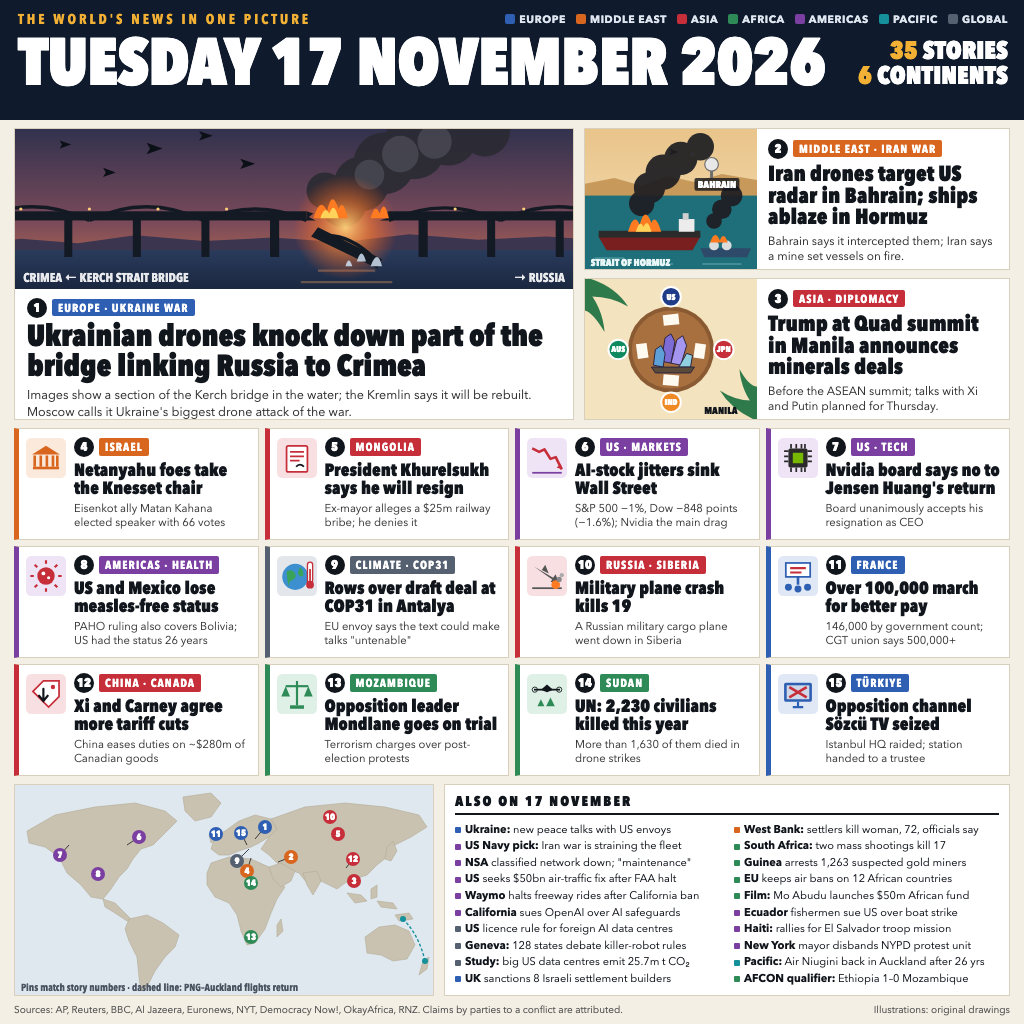
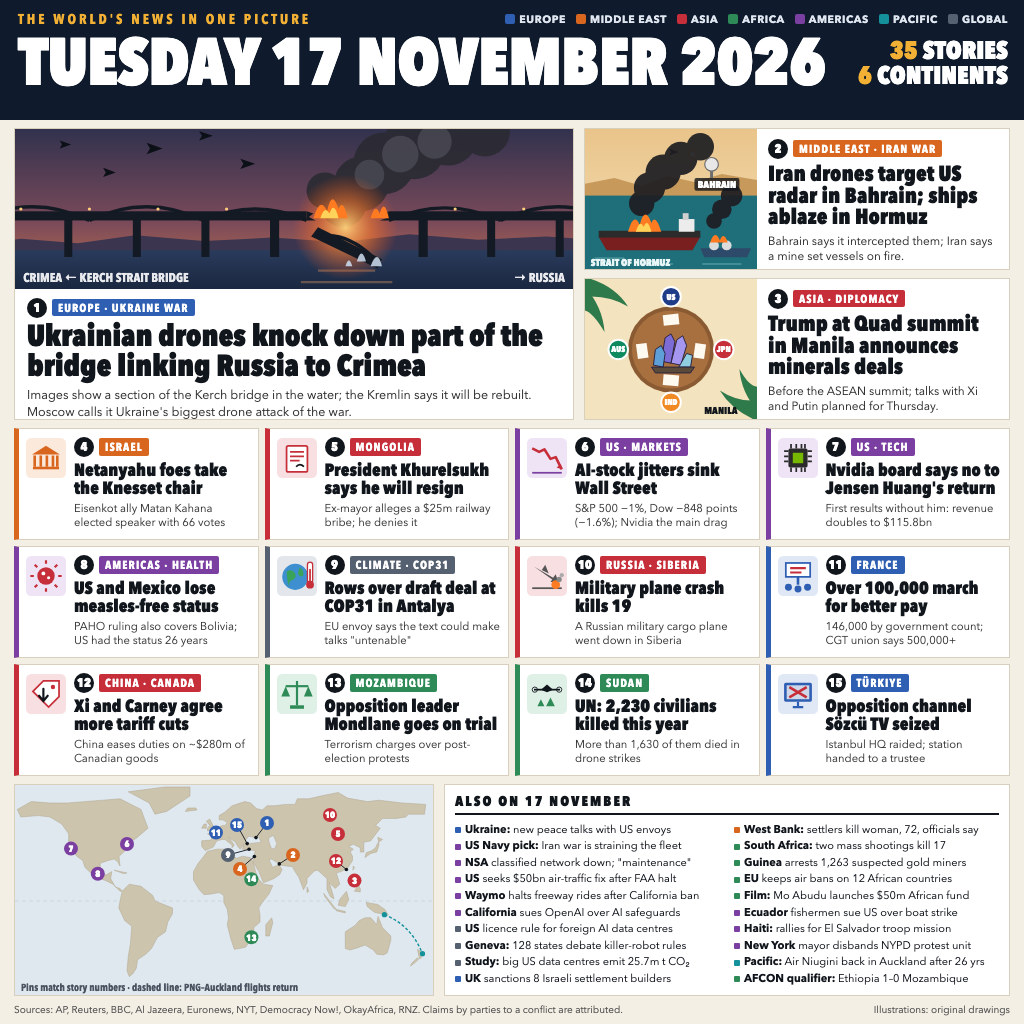
Redraw world map from real coordinates, add Nvidia results

Changed region(s): [[0.0, 0.75, 0.4375, 0.9688], [0.8125, 0.4688, 0.9688, 0.5312]]

diff --git a/layout/index.html b/layout/index.html
@@ -373,7 +373,7 @@
       <path d="M15 12 V7 M21 12 V7 M27 12 V7 M31 12 V7 M15 34 V39 M21 34 V39 M27 34 V39 M31 34 V39 M12 15 H7 M12 21 H7 M12 27 H7 M34 15 H39 M34 21 H39 M34 27 H39" stroke="#2b2b2b" stroke-width="2"/></svg>
     <div class="body"><div class="top"><span class="num">7</span><span class="tag am">US · Tech</span></div>
       <h3>Nvidia board says no to Jensen Huang's return</h3>
-      <p>Board unanimously accepts his resignation as CEO</p></div>
+      <p>First results without him: revenue doubles to $115.8bn</p></div>
   </div>
 
   <div class="card am">
@@ -461,53 +461,78 @@
 <section class="map">
   <svg viewBox="0 0 420 212" width="420" height="212" xmlns="http://www.w3.org/2000/svg">
     <!-- equirectangular: x = (lon+170)*1.1667, y = (80-lat)*1.4 + 4 -->
-    <g fill="#c9c2b0" stroke="#b3ab97" stroke-width="0.6">
-      <path d="M12 46 L40 30 L80 22 L120 18 L150 26 L162 36 L150 48 L138 60 L126 64 L118 74 L112 84 L104 92 L96 104 L88 114 L76 112 L66 100 L52 88 L44 72 L30 62 L14 58 Z"/>
-      <path d="M168 12 L196 8 L206 18 L196 32 L180 36 L170 26 Z"/>
-      <path d="M88 114 L100 118 L110 128 L116 134 L112 136 L100 128 L90 122 Z"/>
-      <path d="M114 134 L132 130 L148 138 L164 150 L160 162 L150 172 L140 186 L132 202 L126 206 L124 192 L122 172 L114 156 L110 144 Z"/>
-      <path d="M196 64 L200 52 L210 46 L224 36 L240 30 L256 34 L262 44 L254 52 L244 58 L236 62 L224 66 L214 70 L204 70 Z"/>
-      <path d="M194 50 L200 46 L202 54 L196 58 Z"/>
-      <path d="M196 78 L214 72 L236 74 L254 82 L262 94 L270 102 L262 114 L256 128 L250 144 L240 158 L232 160 L226 146 L222 130 L214 118 L200 112 L192 100 L192 88 Z"/>
-      <path d="M262 140 L266 134 L268 146 L262 152 Z"/>
-      <path d="M256 34 L290 22 L330 18 L370 22 L404 30 L412 42 L396 52 L380 60 L372 72 L362 80 L352 90 L340 94 L330 98 L322 104 L314 100 L306 96 L298 104 L292 98 L284 88 L272 84 L262 78 L254 70 L246 64 L254 52 L262 44 Z"/>
-      <path d="M254 82 L266 78 L280 86 L276 96 L266 102 L258 94 Z"/>
-      <path d="M288 88 L302 86 L306 96 L298 110 L292 100 Z"/>
-      <path d="M332 108 L346 110 L352 116 L340 118 Z"/><path d="M356 104 L362 100 L362 112 L356 114 Z"/>
-      <path d="M362 116 L378 118 L382 124 L366 122 Z"/>
-      <path d="M372 62 L378 56 L382 66 L376 76 L370 74 Z"/>
-      <path d="M350 152 L364 142 L380 140 L394 146 L400 160 L392 174 L378 176 L366 170 L352 168 Z"/>
-      <path d="M408 176 L414 172 L412 184 L404 190 Z"/>
-      <path d="M380 130 L394 128 L398 134 L384 136 Z"/>
+    <!-- equator -->
+    <line x1="0" y1="116" x2="420" y2="116" stroke="#c3d2de" stroke-width="0.8" stroke-dasharray="4 3"/>
+    <g fill="#cdc4ae" stroke="#b0a68e" stroke-width="0.5" stroke-linejoin="round">
+      <!-- North America -->
+      <path d="M2.3 24.4 L16.3 16.6 L35 18 L52.5 18 L87.5 15.2 L105 13.8 L126 24.4 L133 43.2 L121.3 53.2 L116.7 56 L110 65.8 L104 71.4 L105 81 L102.7 76.8 L99.2 74 L93.3 75.4 L85.2 78.2 L85.2 86.6 L91 90.1 L96.8 86.6 L95.7 93.6 L100.3 102 L105 103.4 L107.3 106.2 L105 106.2 L98 99.2 L91 95.7 L85.2 93.6 L75.8 88 L70 82.4 L67.7 75.4 L61.8 71.2 L53.7 60 L53.7 48.8 L46.7 39 L35 32 L23.3 30.6 L5.8 32 Z"/>
+      <!-- Cuba -->
+      <path d="M99.2 85.2 L112 88 L108.5 88.6 Z"/>
+      <!-- Greenland, Iceland -->
+      <path d="M113.2 6.8 L150 2 L175 2 L175 11 L151.7 26.4 L140 29.2 L134.2 18 Z"/>
+      <path d="M170.3 26.4 L182 25 L180.8 22.9 L172.7 23 Z"/>
+      <!-- South America -->
+      <path d="M108.5 104.8 L114.3 99.2 L126 101.3 L137.7 110.4 L140 116 L157.5 123 L157.5 128.6 L152.8 137 L150.5 146.8 L142.3 152.4 L136.5 163.6 L130.7 169.2 L122.5 174.8 L121.3 183.2 L117.8 188.8 L114.3 191.6 L112 186 L113.2 172 L115.5 158 L116.7 141.2 L109.7 135.6 L103.8 123 L105 116 L107.3 106.2 Z"/>
+      <!-- Eurasia -->
+      <path d="M186.7 61.4 L190.2 65.6 L198.3 62.1 L201.8 55.8 L207.7 54.4 L210 54.4 L217 60 L217 62.8 L219.3 60 L213.5 52.3 L220.5 57.2 L222.8 61.4 L225.2 64.2 L228.7 59.3 L227.5 64.2 L240.3 65.6 L239.2 69.8 L238 72.6 L238 76.8 L243.8 86.6 L248.5 97.8 L259 93.6 L264.8 89.4 L267.2 84.5 L263.7 79.6 L257.8 82.4 L254 74.7 L256.7 74 L265.8 80.3 L271.7 81 L277.5 81.7 L280 86.6 L283.8 92.2 L288.5 104.8 L292 97.8 L292 93.6 L299.3 85.9 L302.7 85.2 L307.4 89.4 L312 93.6 L312 104.8 L315.5 111.8 L319 113.9 L317.8 109 L314.3 97.8 L320.2 103.4 L324.8 99.2 L321.3 88 L326 86.6 L332.8 83.1 L337.5 75.4 L337.5 71.2 L335.2 67 L338.3 64.2 L333.7 61.4 L338.3 59.3 L345.3 62.8 L345.3 67 L348.8 67 L348.8 57.2 L355.8 55.8 L365.2 43.2 L360.5 40.4 L367.5 33.4 L381.5 33.4 L390.8 32 L393.2 29.2 L409.5 29.2 L410.7 19.4 L387.3 18 L364 15.2 L352.3 16.6 L332.5 13.1 L323.2 7.5 L305.7 11 L294 13.8 L282.3 13.8 L280 19.4 L270.7 19.4 L259 20.8 L252 20.8 L247.3 25 L241.5 23.6 L235.7 18 L229.8 16.6 L217 20.8 L210 27.1 L204.2 30.6 L204.2 34.8 L207.7 34.8 L212.3 37.6 L210 40.4 L207.7 40.4 L204.2 41.8 L200.7 44.6 L196 48.1 L192.5 48.8 L197.2 51.6 L196 55.1 L186.7 55.8 Z"/>
+      <!-- Britain, Ireland -->
+      <path d="M192.5 46 L200.1 43.9 L197.2 39 L194.8 34.1 L191.3 36.2 L194.8 40.4 L192.5 43.2 Z"/>
+      <path d="M186.7 43.2 L191.3 43.2 L191.3 39 L189 39 Z"/>
+      <!-- Africa -->
+      <path d="M178.5 86.6 L178.5 95 L184.3 104.8 L189 109.7 L196 109 L204.2 107.6 L208.8 110.4 L208.8 117.4 L212.3 124.4 L213.5 132.8 L212.3 139.8 L215.8 153.8 L219.3 164.3 L224 163.6 L230.5 162.2 L235.2 155.9 L238.8 149.6 L238.8 142.6 L245 137 L245 130 L243.8 123 L247.3 117.4 L254 109 L257.8 100.6 L248.5 99.2 L243.8 94.3 L241.5 89.4 L238 77.5 L235.2 72.6 L227.5 71.2 L221.7 73.3 L215.8 70.5 L210 68.4 L210 64.2 L201.8 64.2 L192.5 66.3 L186.7 74 L183.2 78.2 Z"/>
+      <path d="M250.8 151 L254.3 151 L257.8 137.7 L256.7 132.8 L250.8 139.8 Z"/>
+      <!-- Sri Lanka, Japan, Taiwan, Philippines -->
+      <path d="M292 102 L293.8 106.2 L292 107.6 Z"/>
+      <path d="M350 72.6 L355.8 68.4 L361.7 67 L364 60 L362.8 52.3 L367.5 54.4 L362.8 57.9 L360.5 62.8 L357 65.6 L351.2 67.7 Z"/>
+      <path d="M338.3 81 L339.5 82.4 L337.9 85.2 Z"/>
+      <path d="M338.3 90.1 L339.5 90.8 L341.8 97.8 L345.3 103.4 L345.3 106.9 L339.5 106.2 L341.8 102 L338.3 96.4 Z"/>
+      <!-- Borneo, Sumatra, Java, New Guinea -->
+      <path d="M325 113.9 L331.5 106.2 L333.8 114.6 L330.3 121.6 L323.2 120.2 Z"/>
+      <path d="M308.6 108.3 L321.3 124.4 L319 123.7 L310 111.8 Z"/>
+      <path d="M321.3 124.4 L330.3 126.5 L330.3 127.9 L321.3 125.8 Z"/>
+      <path d="M351.2 117.4 L362.8 119.5 L369.8 124.4 L373.3 130 L365.2 128.6 L359.3 127.2 L352.3 121.6 Z"/>
+      <!-- Australia, New Zealand -->
+      <path d="M330.3 146.8 L330.3 163.6 L335 165 L342 162.9 L350.2 160.1 L358.4 165 L361.7 169.2 L368.7 169.9 L372.3 167.8 L375.8 155.2 L375.8 151 L367.5 142.6 L363 131.4 L361.7 139.8 L355.8 132.8 L350 132.8 L344.2 135.6 L340 140.5 Z"/>
+      <path d="M402.5 164.3 L408.3 168.5 L406.6 172 L404.8 174.1 L403.7 170.6 Z"/>
+      <path d="M402.5 172.7 L403.7 174.1 L400.2 177.6 L395.5 181.1 L396.7 178.3 Z"/>
+    </g>
+    <!-- inland seas -->
+    <g fill="#dfe8ef" stroke="#b0a68e" stroke-width="0.5">
+      <path d="M231 54.4 L233.3 51.6 L236.8 51.6 L239.2 53 L242.7 50.2 L246.3 57.2 L240.3 57.9 L234.5 58.6 L231 57.2 Z"/>
+      <path d="M253.7 53 L258.3 50.2 L261.8 58.6 L259.5 64.2 L256 62.8 L253.7 55.8 Z"/>
     </g>
     <g font-family="Avenir Next Condensed, sans-serif" font-weight="800" font-size="9" text-anchor="middle">
-      <g stroke="#11151c" stroke-width="0.8">
-        <line x1="240" y1="54" x2="250" y2="42"/>
-        <line x1="263" y1="77" x2="276" y2="72"/>
-        <line x1="236" y1="73" x2="232" y2="86"/>
-        <line x1="234" y1="64" x2="222" y2="76"/>
-        <line x1="232" y1="60" x2="226" y2="48"/>
-        <line x1="331" y1="83" x2="338" y2="74"/>
-        <line x1="54" y1="60" x2="45" y2="70"/>
-        <line x1="112" y1="60" x2="124" y2="52"/>
+      <!-- exact spots + leader lines to offset pins in the crowded Europe / Middle East area -->
+      <g stroke="#11151c" stroke-width="0.9">
+        <line x1="241" y1="52.6" x2="252" y2="38"/>
+        <line x1="232.2" y1="58.6" x2="222" y2="40"/>
+        <line x1="234.1" y1="64.3" x2="213" y2="70"/>
+        <line x1="239.4" y1="71.5" x2="225" y2="84"/>
+        <line x1="264.3" y1="78.9" x2="278" y2="70"/>
+        <line x1="331.4" y1="84.5" x2="321" y2="76"/>
       </g>
-      <circle cx="250" cy="42" r="7" fill="#2f5fb3"/><text x="250" y="45.2" fill="#fff">1</text>
-      <circle cx="276" cy="72" r="7" fill="#d9661f"/><text x="276" y="75.2" fill="#fff">2</text>
-      <circle cx="339" cy="96" r="7" fill="#c62f3a"/><text x="339" y="99.2" fill="#fff">3</text>
-      <circle cx="232" cy="86" r="7" fill="#d9661f"/><text x="232" y="89.2" fill="#fff">4</text>
+      <g fill="#11151c">
+        <circle cx="241" cy="52.6" r="1.8"/><circle cx="232.2" cy="58.6" r="1.8"/><circle cx="234.1" cy="64.3" r="1.8"/>
+        <circle cx="239.4" cy="71.5" r="1.8"/><circle cx="264.3" cy="78.9" r="1.8"/><circle cx="331.4" cy="84.5" r="1.8"/>
+      </g>
+      <circle cx="252" cy="38" r="7" fill="#2f5fb3"/><text x="252" y="41.2" fill="#fff">1</text>
+      <circle cx="278" cy="70" r="7" fill="#d9661f"/><text x="278" y="73.2" fill="#fff">2</text>
+      <circle cx="339.5" cy="95.6" r="7" fill="#c62f3a"/><text x="339.5" y="98.8" fill="#fff">3</text>
+      <circle cx="225" cy="84" r="7" fill="#d9661f"/><text x="225" y="87.2" fill="#fff">4</text>
       <circle cx="323" cy="49" r="7" fill="#c62f3a"/><text x="323" y="52.2" fill="#fff">5</text>
-      <circle cx="124" cy="52" r="7" fill="#7a3fa0"/><text x="124" y="55.2" fill="#fff">6</text>
-      <circle cx="45" cy="70" r="7" fill="#7a3fa0"/><text x="45" y="73.2" fill="#fff">7</text>
-      <circle cx="83" cy="89" r="7" fill="#7a3fa0"/><text x="83" y="92.2" fill="#fff">8</text>
-      <circle cx="222" cy="76" r="7" fill="#556070"/><text x="222" y="79.2" fill="#fff">9</text>
-      <circle cx="315" cy="32" r="7" fill="#c62f3a"/><text x="315" y="35.2" fill="#fff">10</text>
-      <circle cx="201" cy="49" r="7" fill="#2f5fb3"/><text x="201" y="52.2" fill="#fff">11</text>
-      <circle cx="338" cy="74" r="7" fill="#c62f3a"/><text x="338" y="77.2" fill="#fff">12</text>
-      <circle cx="236" cy="152" r="7" fill="#2e8b57"/><text x="236" y="155.2" fill="#fff">13</text>
-      <circle cx="236" cy="98" r="7" fill="#2e8b57"/><text x="236" y="101.2" fill="#fff">14</text>
-      <circle cx="226" cy="48" r="7" fill="#2f5fb3"/><text x="226" y="51.2" fill="#fff">15</text>
-      <path d="M388 134 Q404 150 410 176" stroke="#14919b" stroke-width="1.4" stroke-dasharray="3 2" fill="none"/>
-      <circle cx="388" cy="134" r="3" fill="#14919b"/><circle cx="410" cy="176" r="3" fill="#14919b"/>
+      <circle cx="112" cy="59" r="7" fill="#7a3fa0"/><text x="112" y="62.2" fill="#fff">6</text>
+      <circle cx="56" cy="63.6" r="7" fill="#7a3fa0"/><text x="56" y="66.8" fill="#fff">7</text>
+      <circle cx="82.8" cy="88.8" r="7" fill="#7a3fa0"/><text x="82.8" y="92" fill="#fff">8</text>
+      <circle cx="213" cy="70" r="7" fill="#556070"/><text x="213" y="73.2" fill="#fff">9</text>
+      <circle cx="315" cy="30" r="7" fill="#c62f3a"/><text x="315" y="33.2" fill="#fff">10</text>
+      <circle cx="201" cy="47.6" r="7" fill="#2f5fb3"/><text x="201" y="50.8" fill="#fff">11</text>
+      <circle cx="321" cy="76" r="7" fill="#c62f3a"/><text x="321" y="79.2" fill="#fff">12</text>
+      <circle cx="236.4" cy="152.3" r="7" fill="#2e8b57"/><text x="236.4" y="155.5" fill="#fff">13</text>
+      <circle cx="236.3" cy="94.2" r="7" fill="#2e8b57"/><text x="236.3" y="97.4" fill="#fff">14</text>
+      <circle cx="222" cy="40" r="7" fill="#2f5fb3"/><text x="222" y="43.2" fill="#fff">15</text>
+      <!-- Port Moresby -> Auckland flights -->
+      <path d="M369.4 129.7 Q396 140 407.5 168.7" stroke="#14919b" stroke-width="1.4" stroke-dasharray="3 2" fill="none"/>
+      <circle cx="369.4" cy="129.7" r="2.6" fill="#14919b"/><circle cx="407.5" cy="168.7" r="2.6" fill="#14919b"/>
     </g>
     <text x="6" y="206" font-family="Avenir Next Condensed, sans-serif" font-weight="700" font-size="10" fill="#4a5360">Pins match story numbers · dashed line: PNG–Auckland flights return</text>
   </svg>

diff --git a/stories.md b/stories.md
@@ -29,7 +29,7 @@ a reported James Bond casting (only rumours), the Vulcan/Amazon launch failure (
 4. **Israel:** Knesset elects Matan Kahana (Eisenkot ally) speaker with 66 votes; Netanyahu bloc lost its majority; Eisenkot has five weeks to form a government. — AP summary https://www.dailyrecordnews.com/ap_news/us/ap-news-summary-at-5-30-p-m-est/article_fa26efaa-b3e2-5d84-9b81-3bbe17c171e1.html ; https://www.timesofisrael.com/liveblog-november-17-2026/
 5. **Mongolia:** President Khurelsukh says he will resign over a $25m railway bribe claim he denies; parliament must approve. — https://www.justsecurity.org/164914/early-edition-november-17-2026/ (AP); https://gazettengr.com/mongolian-president-khurelsukh-to-resign-amid-multimillion-dollar-corruption-allegation/
 6. **Wall Street:** AI-stock jitters; S&P 500 −1%, Dow −848 points (−1.6%), Nasdaq −0.7%. — https://www.wistv.com/2026/11/17/another-wipeout-hits-wall-street-nvidia-other-jittery-ai-stocks-swing-lower/ (AP)
-7. **Nvidia:** board unanimously rejects Jensen Huang's offer to return as CEO. — AP summary (above)
+7. **Nvidia:** board unanimously rejects Jensen Huang's offer to return as CEO; Q3 FY2027 revenue $115.8bn (+103% y/y), Q4 outlook $130bn, under interim CEO Colette Kress. — AP summary (above); https://www.globenewswire.com/news-release/2026/11/17/3405200/0/en/nvidia-announces-financial-results-for-third-quarter-fiscal-2027.html ; https://www.cbsnews.com/news/nvidia-earnings-jensen-huang-colette-kress/
 8. **Measles:** PAHO declares the US, Mexico and Bolivia have lost measles-elimination status (US had it 26 years). — AP summary; https://www.aljazeera.com/news/ ("US officially loses measles-free status after 26 years")
 9. **COP31 (Antalya, Türkiye):** tensions over the draft deal; EU envoy says text could make talks "untenable"; talks close Friday. — https://www.yahoo.com/news/science/articles/tensions-rise-over-draft-climate-204029559.html ; https://www.justsecurity.org/164914/early-edition-november-17-2026/
 10. **Russia:** military plane crash in Siberia kills 19. — https://www.aljazeera.com/news/ ("Russian military plane crash in Siberia kills 19")
